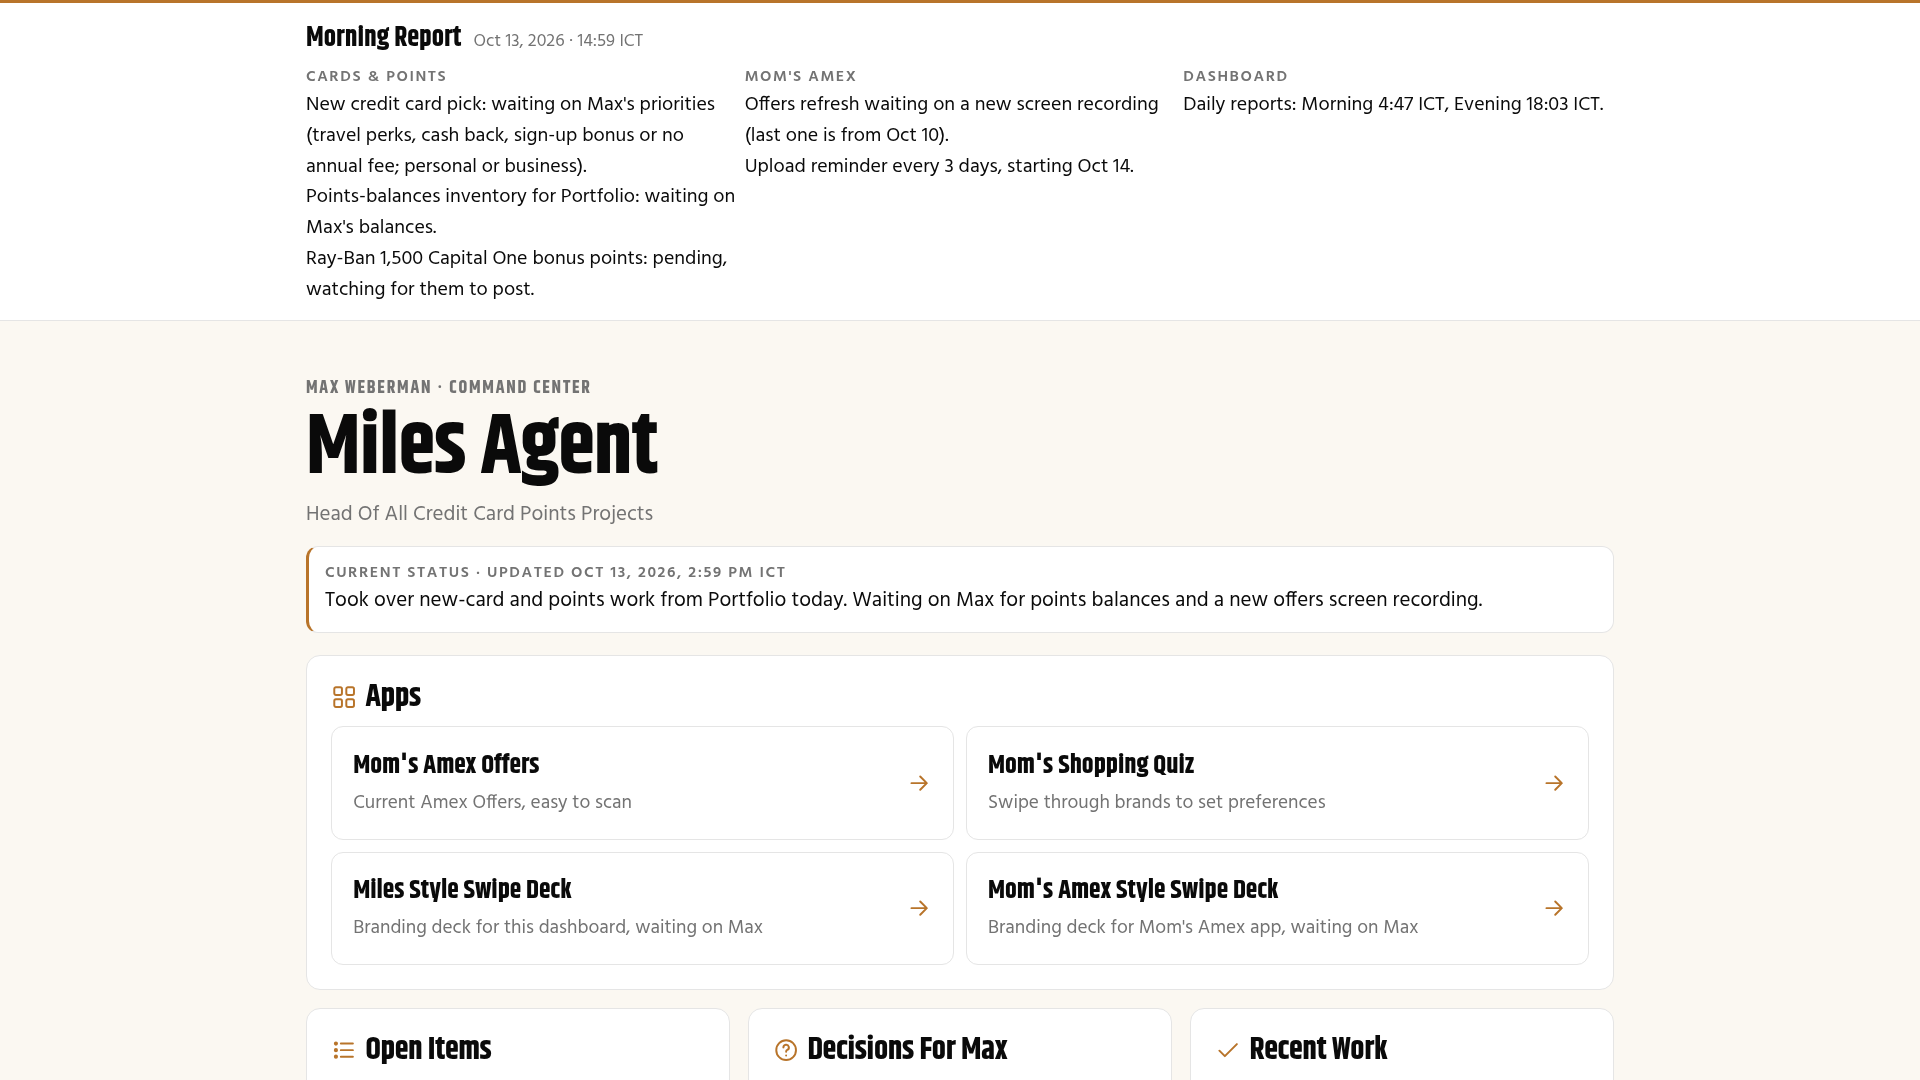
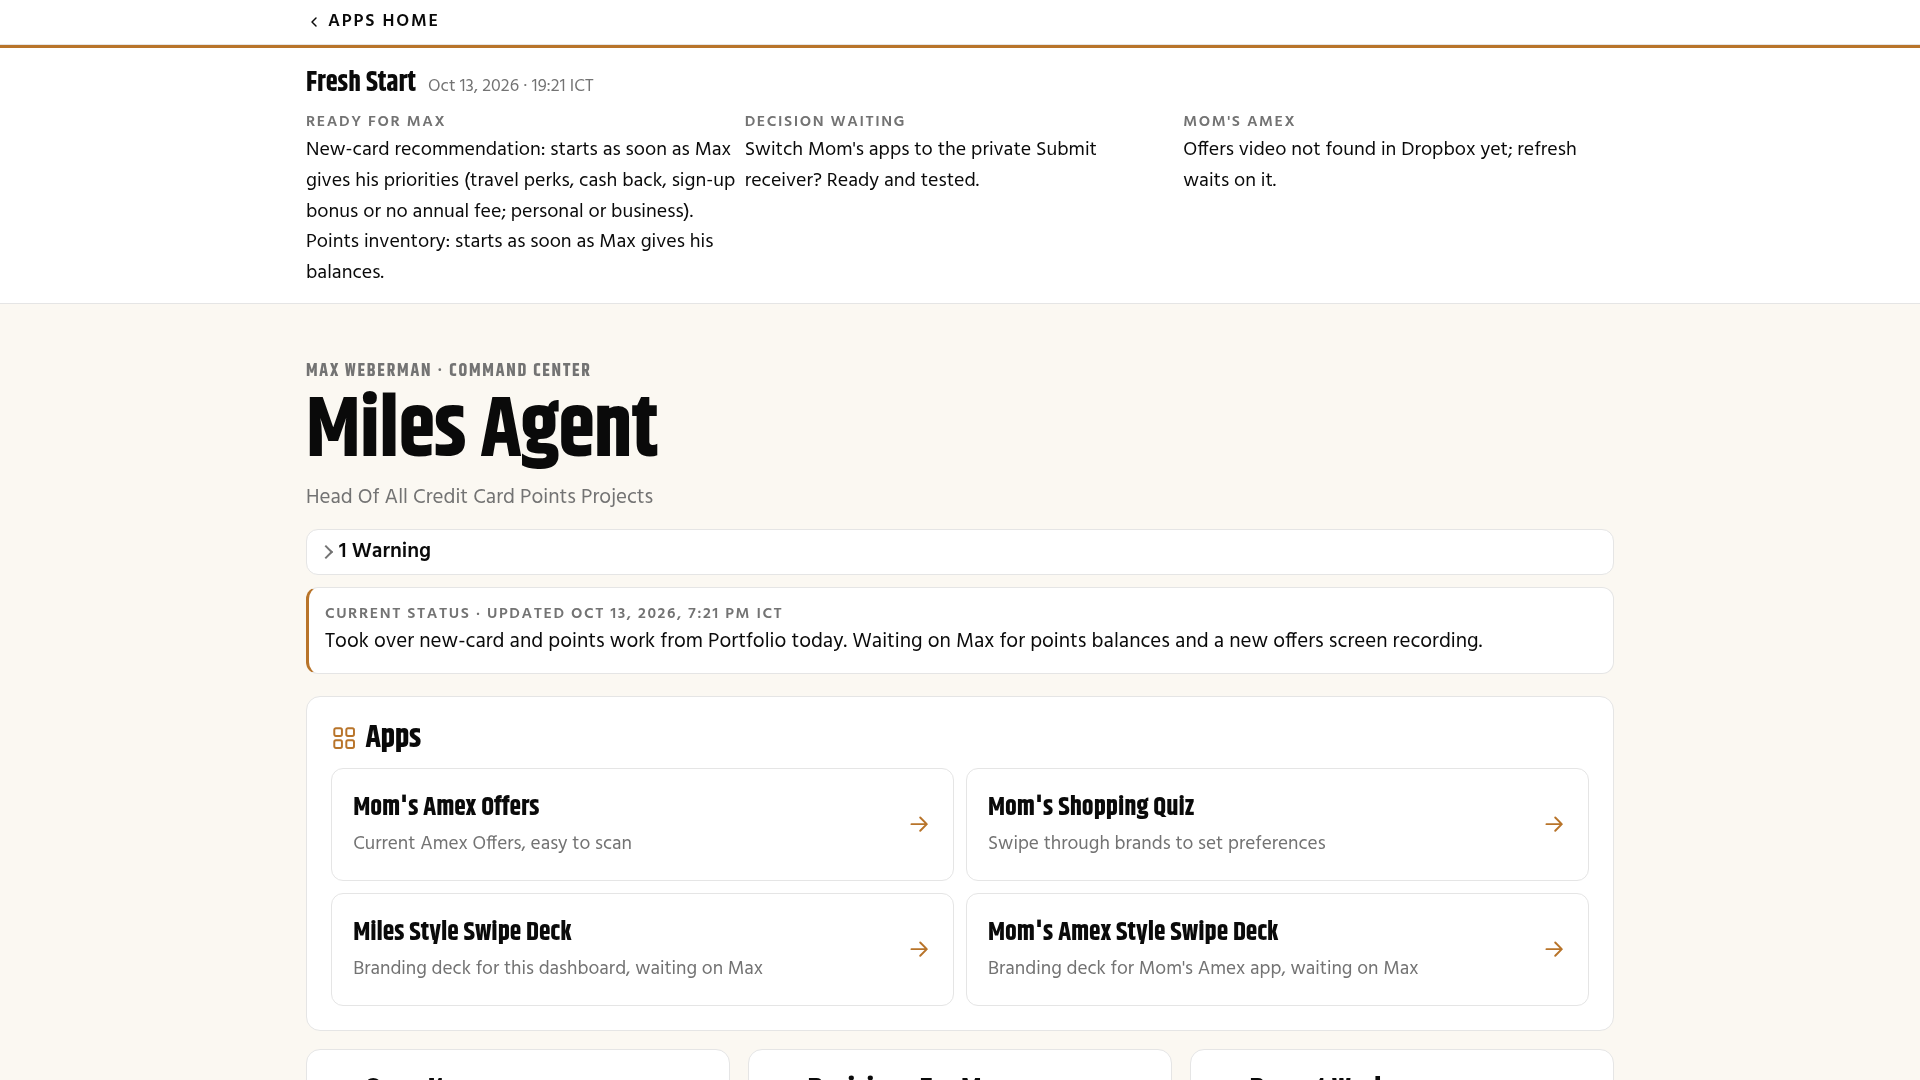
Fresh Start: ptr.js v3 (cache-busting reload) with Miles patches; Fresh Start report

diff --git a/ptr.js b/ptr.js
@@ -1,5 +1,5 @@
 /* Pull-to-refresh drop-in. Include: <script src="ptr.js" defer></script>
-   Based on /workspace/ops/ptr/ptr.js, plus (Miles Agent): ignores touches that start on
+   Based on /workspace/ops/ptr/ptr.js v3 (ignore list + cache-busting reload), plus (Miles Agent): ignores touches that start on
    [data-ptr-ignore], .card, inputs and textareas; requires every scrollable ancestor to be at
    its top (app-shell pages scroll inside a div); ignores sideways drags and any gesture that scrolls a carousel. */
 (function(){
@@ -14,7 +14,7 @@
   document.body?add():document.addEventListener('DOMContentLoaded',add);
   function atTop(t){if((window.scrollY||html.scrollTop)>0)return false;
     for(var e=t;e&&e!==document.body&&e!==html;e=e.parentElement){if(e.scrollTop>0)return false;}return true;}
-  function skip(t){return !!(t&&t.closest&&t.closest('[data-ptr-ignore],.card,input,textarea,select'));}
+  function skip(t){return !!(t&&t.closest&&t.closest('canvas,[data-ptr-ignore],[data-swipe],input,textarea,select,[contenteditable],dialog[open],[aria-modal="true"],.card,.swipe,.deck'));}
   var lock=null,sl=[];
   function lefts(t){var a=[];for(var e=t;e&&e!==html;e=e.parentElement)a.push([e,e.scrollLeft]);return a;}
   window.addEventListener('touchstart',function(e){var t=e.target;y0=(e.touches.length===1&&!skip(t)&&atTop(t))?e.touches[0].clientY:null;x0=y0===null?0:e.touches[0].clientX;d=0;ok=false;lock=null;sl=y0===null?[]:lefts(t);},{passive:true});
@@ -23,6 +23,6 @@
     if(lock==='h'||sl.some(function(p){return p[0].scrollLeft!==p[1]})){y0=null;ok=false;ind.style.transform='translateY(-48px)';return;}
     if(e.touches.length!==1||d<=0||!atTop(e.target)){ok=false;ind.style.transform='translateY(-48px)';return;}
     ok=true;var p=Math.min(d/2,90);ind.style.transform='translateY('+(p-36)+'px) rotate('+(p*4)+'deg)';},{passive:true});
-  function end(){if(y0===null){ind.style.transform='translateY(-48px)';return;}ind.style.transition='transform .2s';if(ok&&d/2>=T){ind.style.transform='translateY(16px)';setTimeout(function(){location.reload();},150);}else{ind.style.transform='translateY(-48px)';}setTimeout(function(){ind.style.transition='none';},220);y0=null;ok=false;}
+  function end(){if(y0===null){ind.style.transform='translateY(-48px)';return;}ind.style.transition='transform .2s';if(ok&&d/2>=T){ind.style.transform='translateY(16px)';setTimeout(function(){var u=new URL(location.href);u.searchParams.set('v',Date.now());location.replace(u.toString());},150);}else{ind.style.transform='translateY(-48px)';}setTimeout(function(){ind.style.transition='none';},220);y0=null;ok=false;}
   window.addEventListener('touchend',end,{passive:true});window.addEventListener('touchcancel',function(){y0=null;ok=false;ind.style.transform='translateY(-48px)';},{passive:true});
 })();

diff --git a/data.js b/data.js
@@ -4,26 +4,26 @@ window.DASH = {
   // Update bar: routines replace this (Morning Report 4:47 ICT, Evening Report 18:03 ICT).
   // lines can be plain strings, or groups: { category: "...", lines: ["..."] }
   report: {
-    title: "Evening Report",
-    timestamp: "Oct 13, 2026 · 18:05 ICT",
+    title: "Fresh Start",
+    timestamp: "Oct 13, 2026 · 19:21 ICT",
     lines: [
-      { category: "Today", lines: [
-        "Launched this dashboard and took over the new-card task and points inventory from Portfolio.",
-        "Mom's Shopping Quiz and Mom's Amex Offers got one-tap Submit, a Built by footer, and no emojis.",
-        "All three pages got a back link, pull-down-to-refresh, and phone and laptop checks." ] },
-      { category: "Tomorrow", lines: [
-        "Morning Report goes up by 5:00 ICT.",
-        "Mom's offers upload reminder fires mid-morning; the refresh starts as soon as a new recording lands.",
-        "Still waiting on Max for new-card priorities and points balances.",
-        "Watching for the Ray-Ban bonus points to post." ] }
+      { category: "Ready For Max", lines: [
+        "New-card recommendation: starts as soon as Max gives his priorities (travel perks, cash back, sign-up bonus or no annual fee; personal or business).",
+        "Points inventory: starts as soon as Max gives his balances." ] },
+      { category: "Decision Waiting", lines: [
+        "Switch Mom's apps to the private Submit receiver? Ready and tested." ] },
+      { category: "Mom's Amex", lines: [
+        "Offers video not found in Dropbox yet; refresh waits on it." ] }
     ]
   },
   // Urgent and warning items: shown as ONE collapsed line ("1 Urgent · 2 Warnings") that expands on tap/Enter.
   // level: "urgent" or "warning". Empty list = hidden.
-  alerts: [],
+  alerts: [
+    { level: "warning", text: "Mom's offers video not in Dropbox yet; offers still from Oct 10." }
+  ],
   agent: "Miles Agent",
   role: "Head Of All Credit Card Points Projects",
-  updated: "Oct 13, 2026, 6:05 PM ICT",
+  updated: "Oct 13, 2026, 7:21 PM ICT",
   status: "Took over new-card and points work from Portfolio today. Waiting on Max for points balances and a new offers screen recording.",
   apps: [
     { name: "Mom's Amex Offers", url: "https://webermanapps.github.io/janes-amex-offers/", note: "Current Amex Offers, easy to scan" },
@@ -38,6 +38,7 @@ window.DASH = {
     { pri: "", title: "Capital One Ray-Ban Bonus", detail: "Watching for the 1,500 bonus points to post.", state: "Watching" }
   ],
   decisions: [
+    "Switch Mom's apps to the private Submit receiver (ready and tested)?",
     "Bring both of Mom's apps up to the newest brand rules?",
     "Rename the janes-amex-offers repo? This breaks the old link."
   ],
